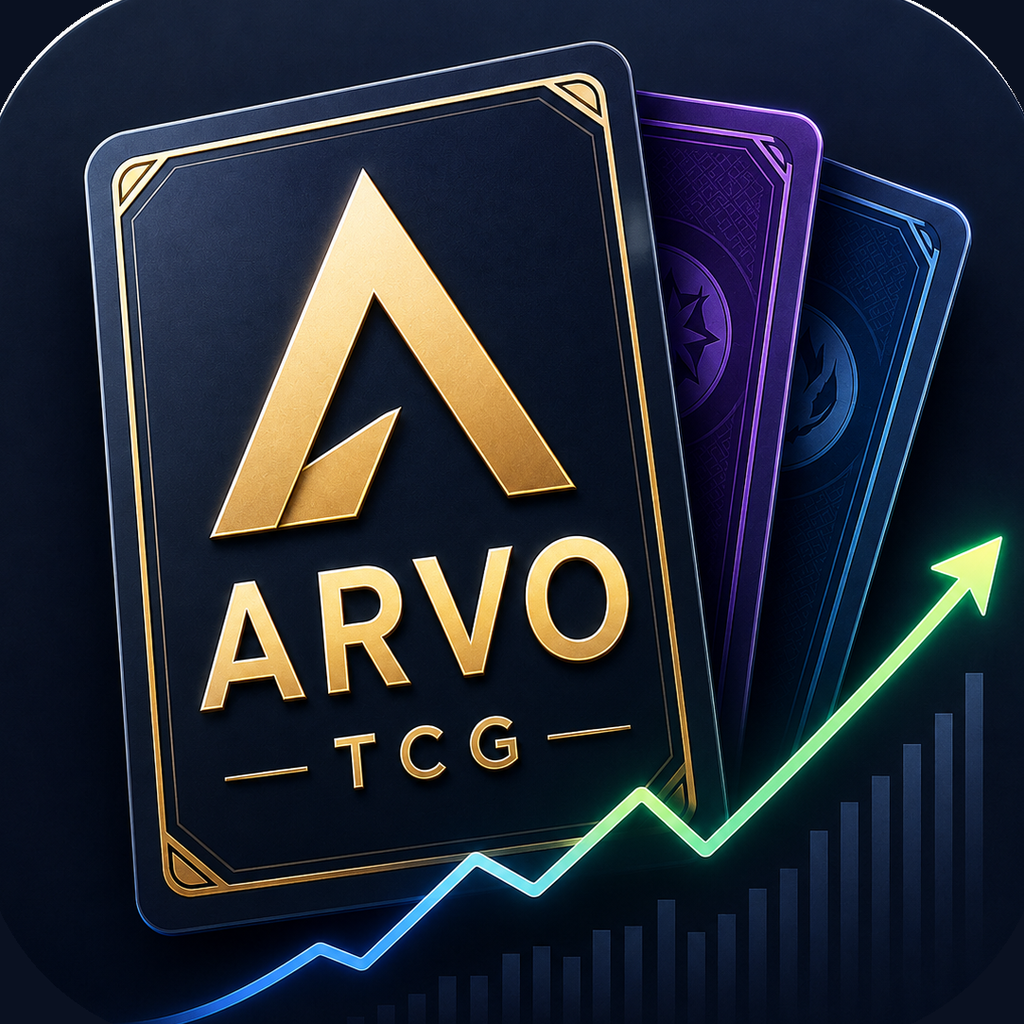
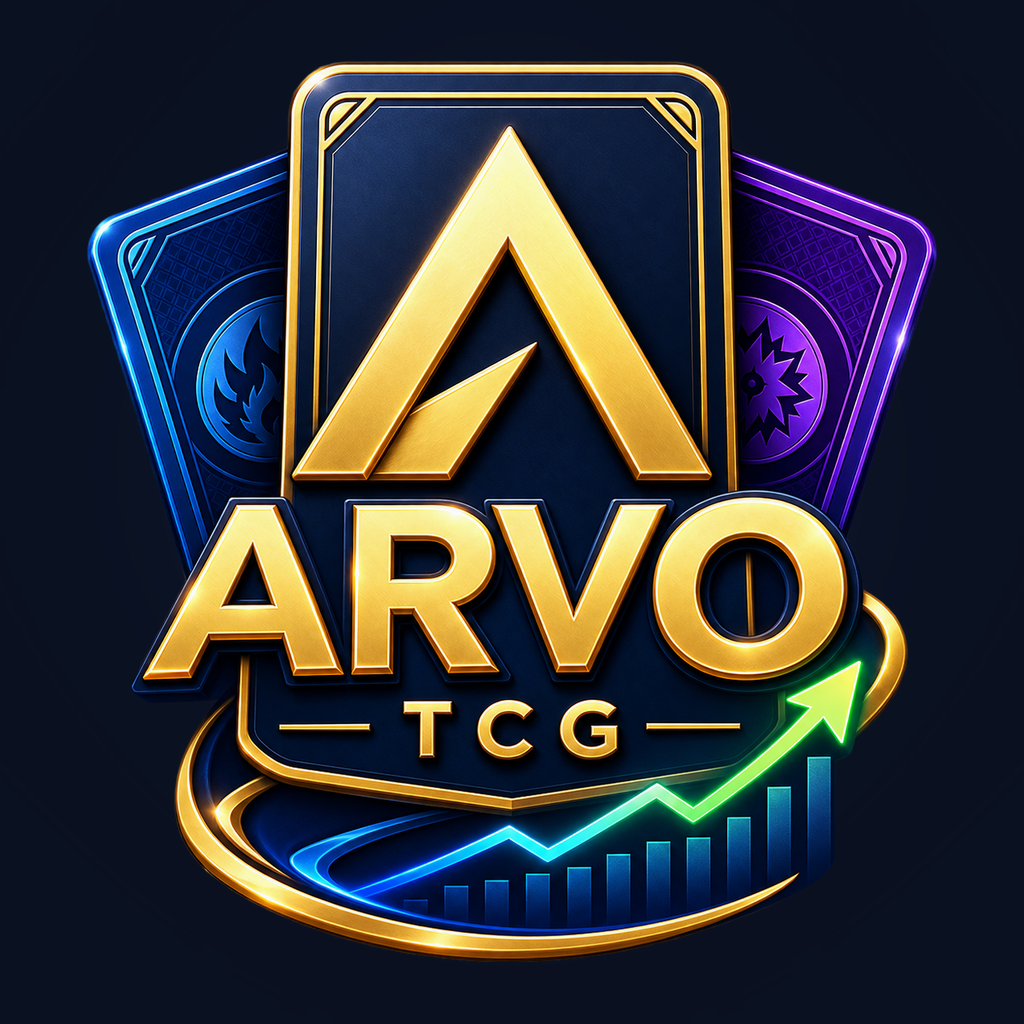
feat(mobile): 앱 아이콘 v2 — ARVO 엠블럼(투명) 네이비 배경 합성 (iOS 88% · Android 적응형 70%)
원본 assets/icon-source-2026-08-29b.png. 미리보기 store-assets/icon-preview.png.

diff --git a/shared/version.ts b/shared/version.ts
@@ -3,4 +3,4 @@
  * 수동 수정 금지. (웹은 NEXT_PUBLIC_APP_VERSION 으로 package.json 을 직접 읽고,
  * 모바일은 Metro watchFolders 가 /shared 만 보므로 이 파일을 통해 같은 값을 읽는다.)
  */
-export const APP_VERSION = "1.1.107";
+export const APP_VERSION = "1.1.108";
